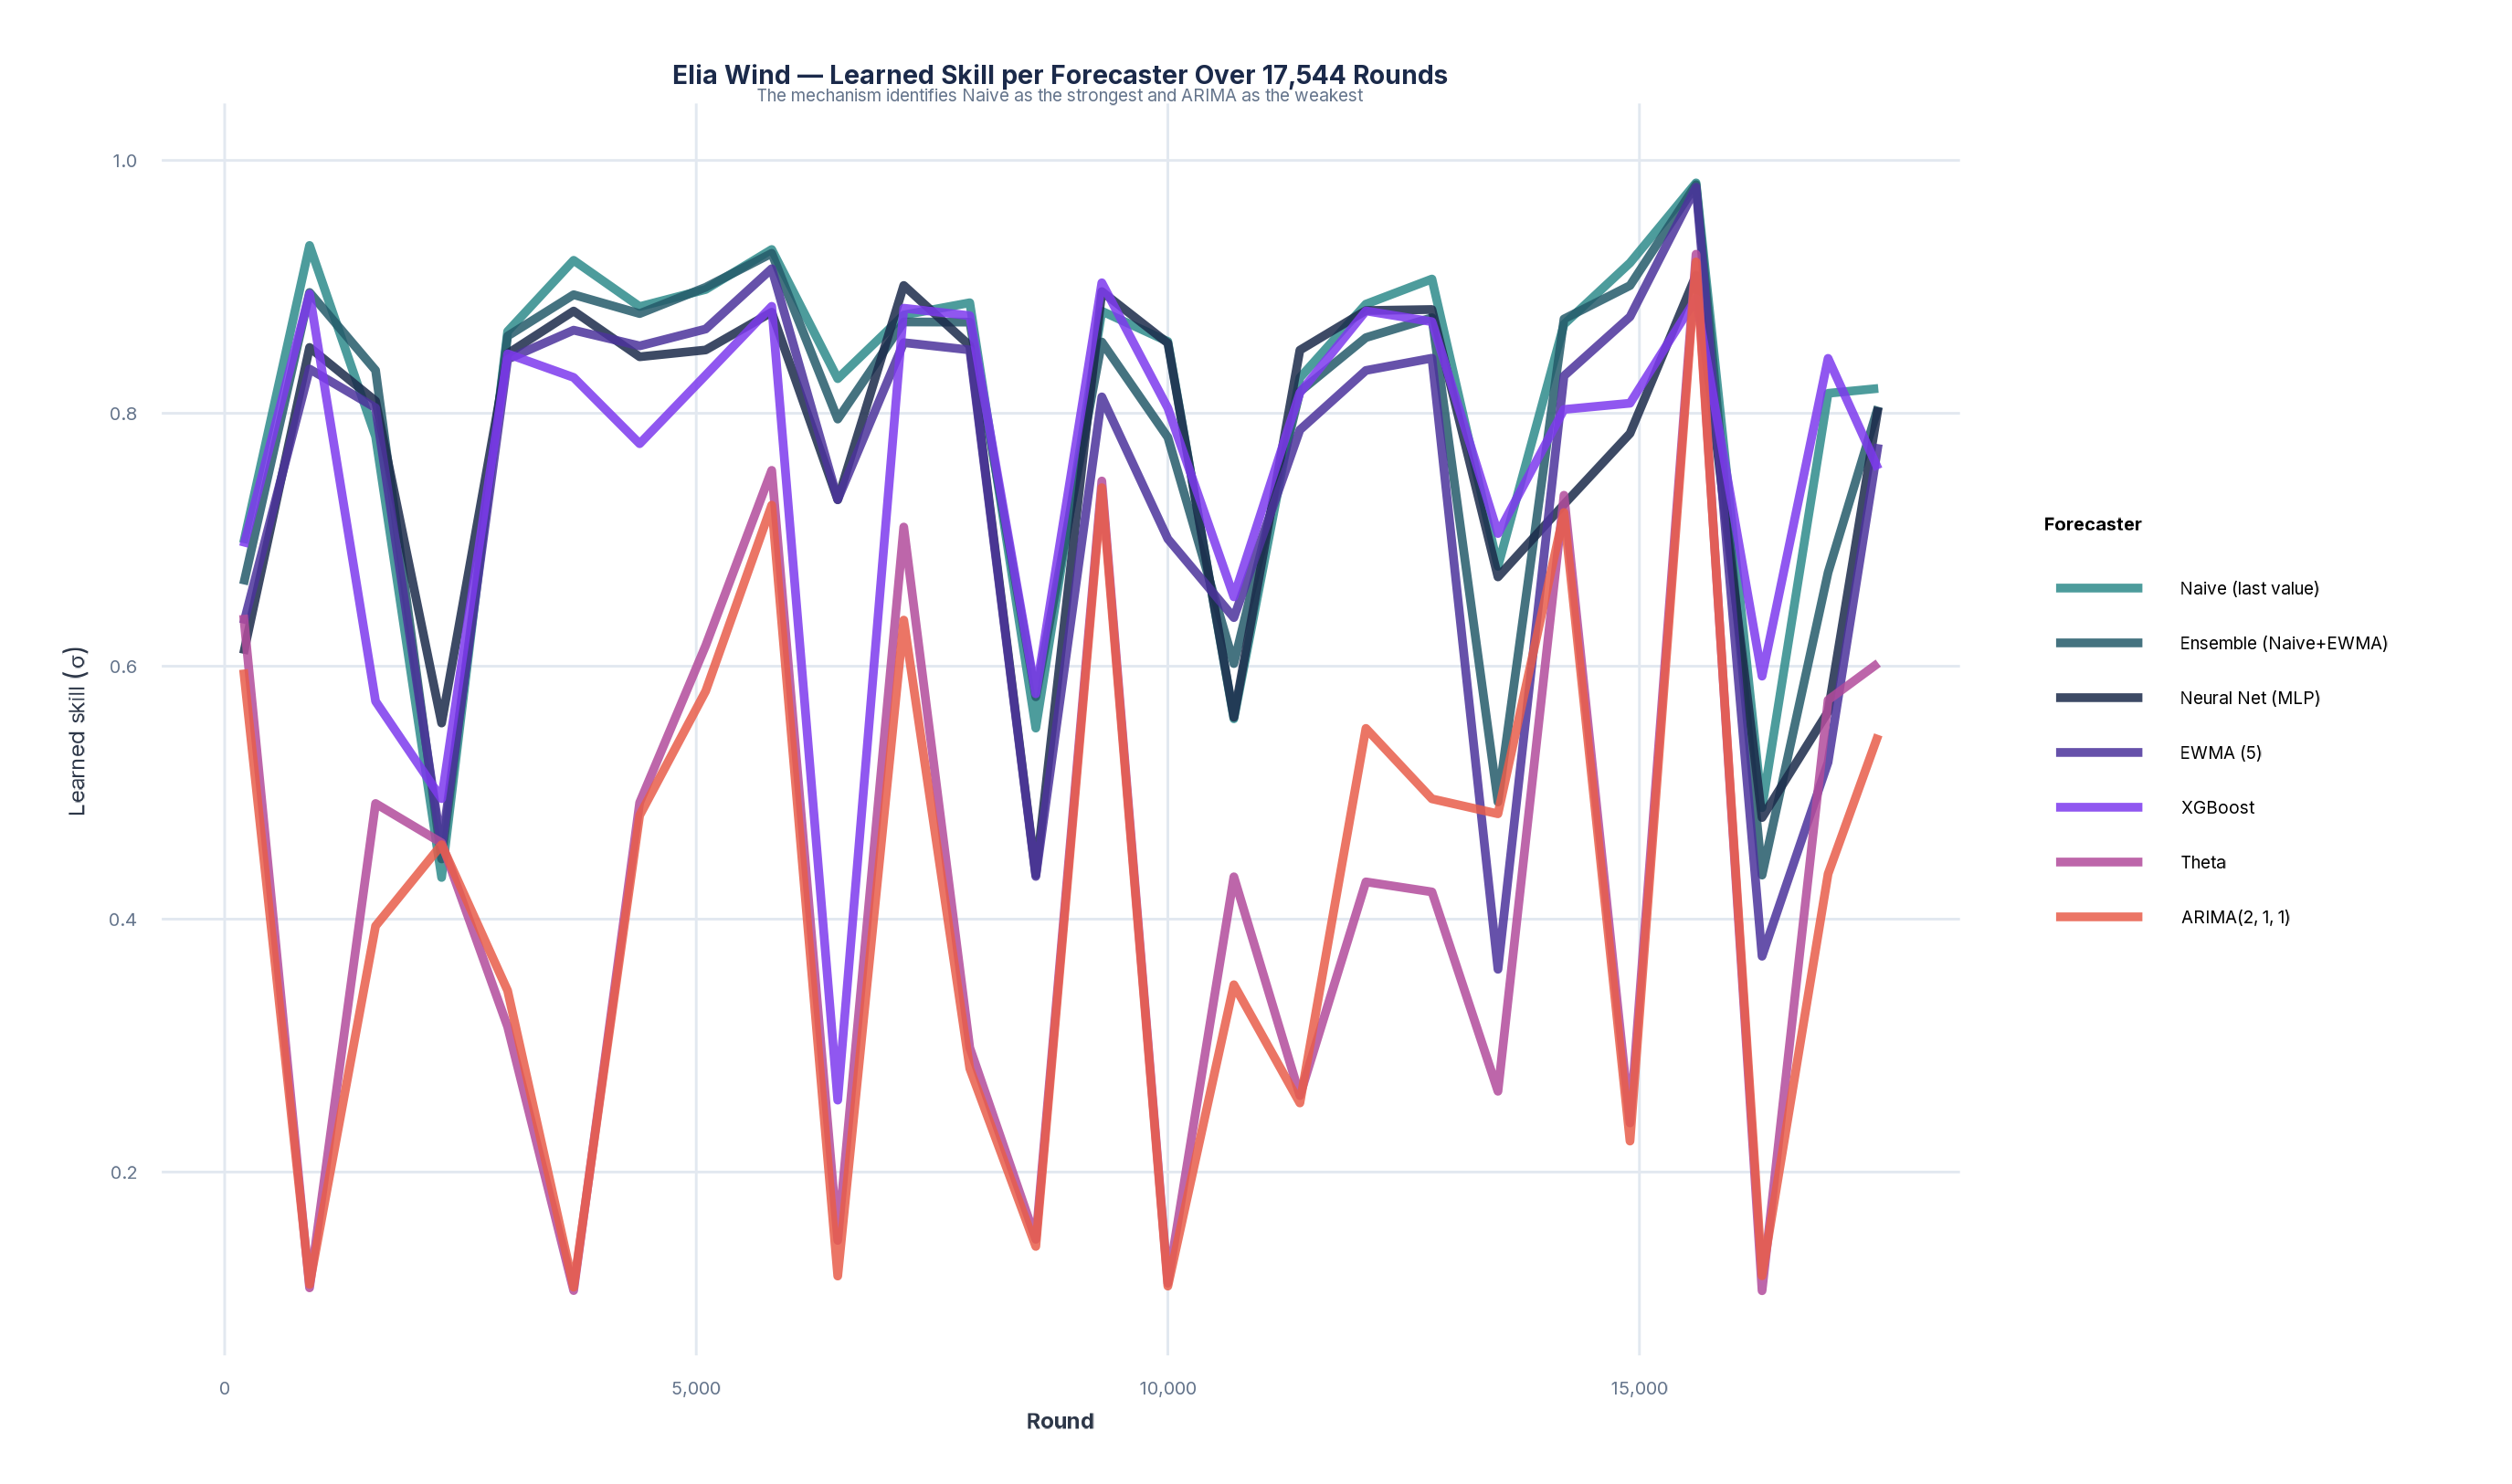
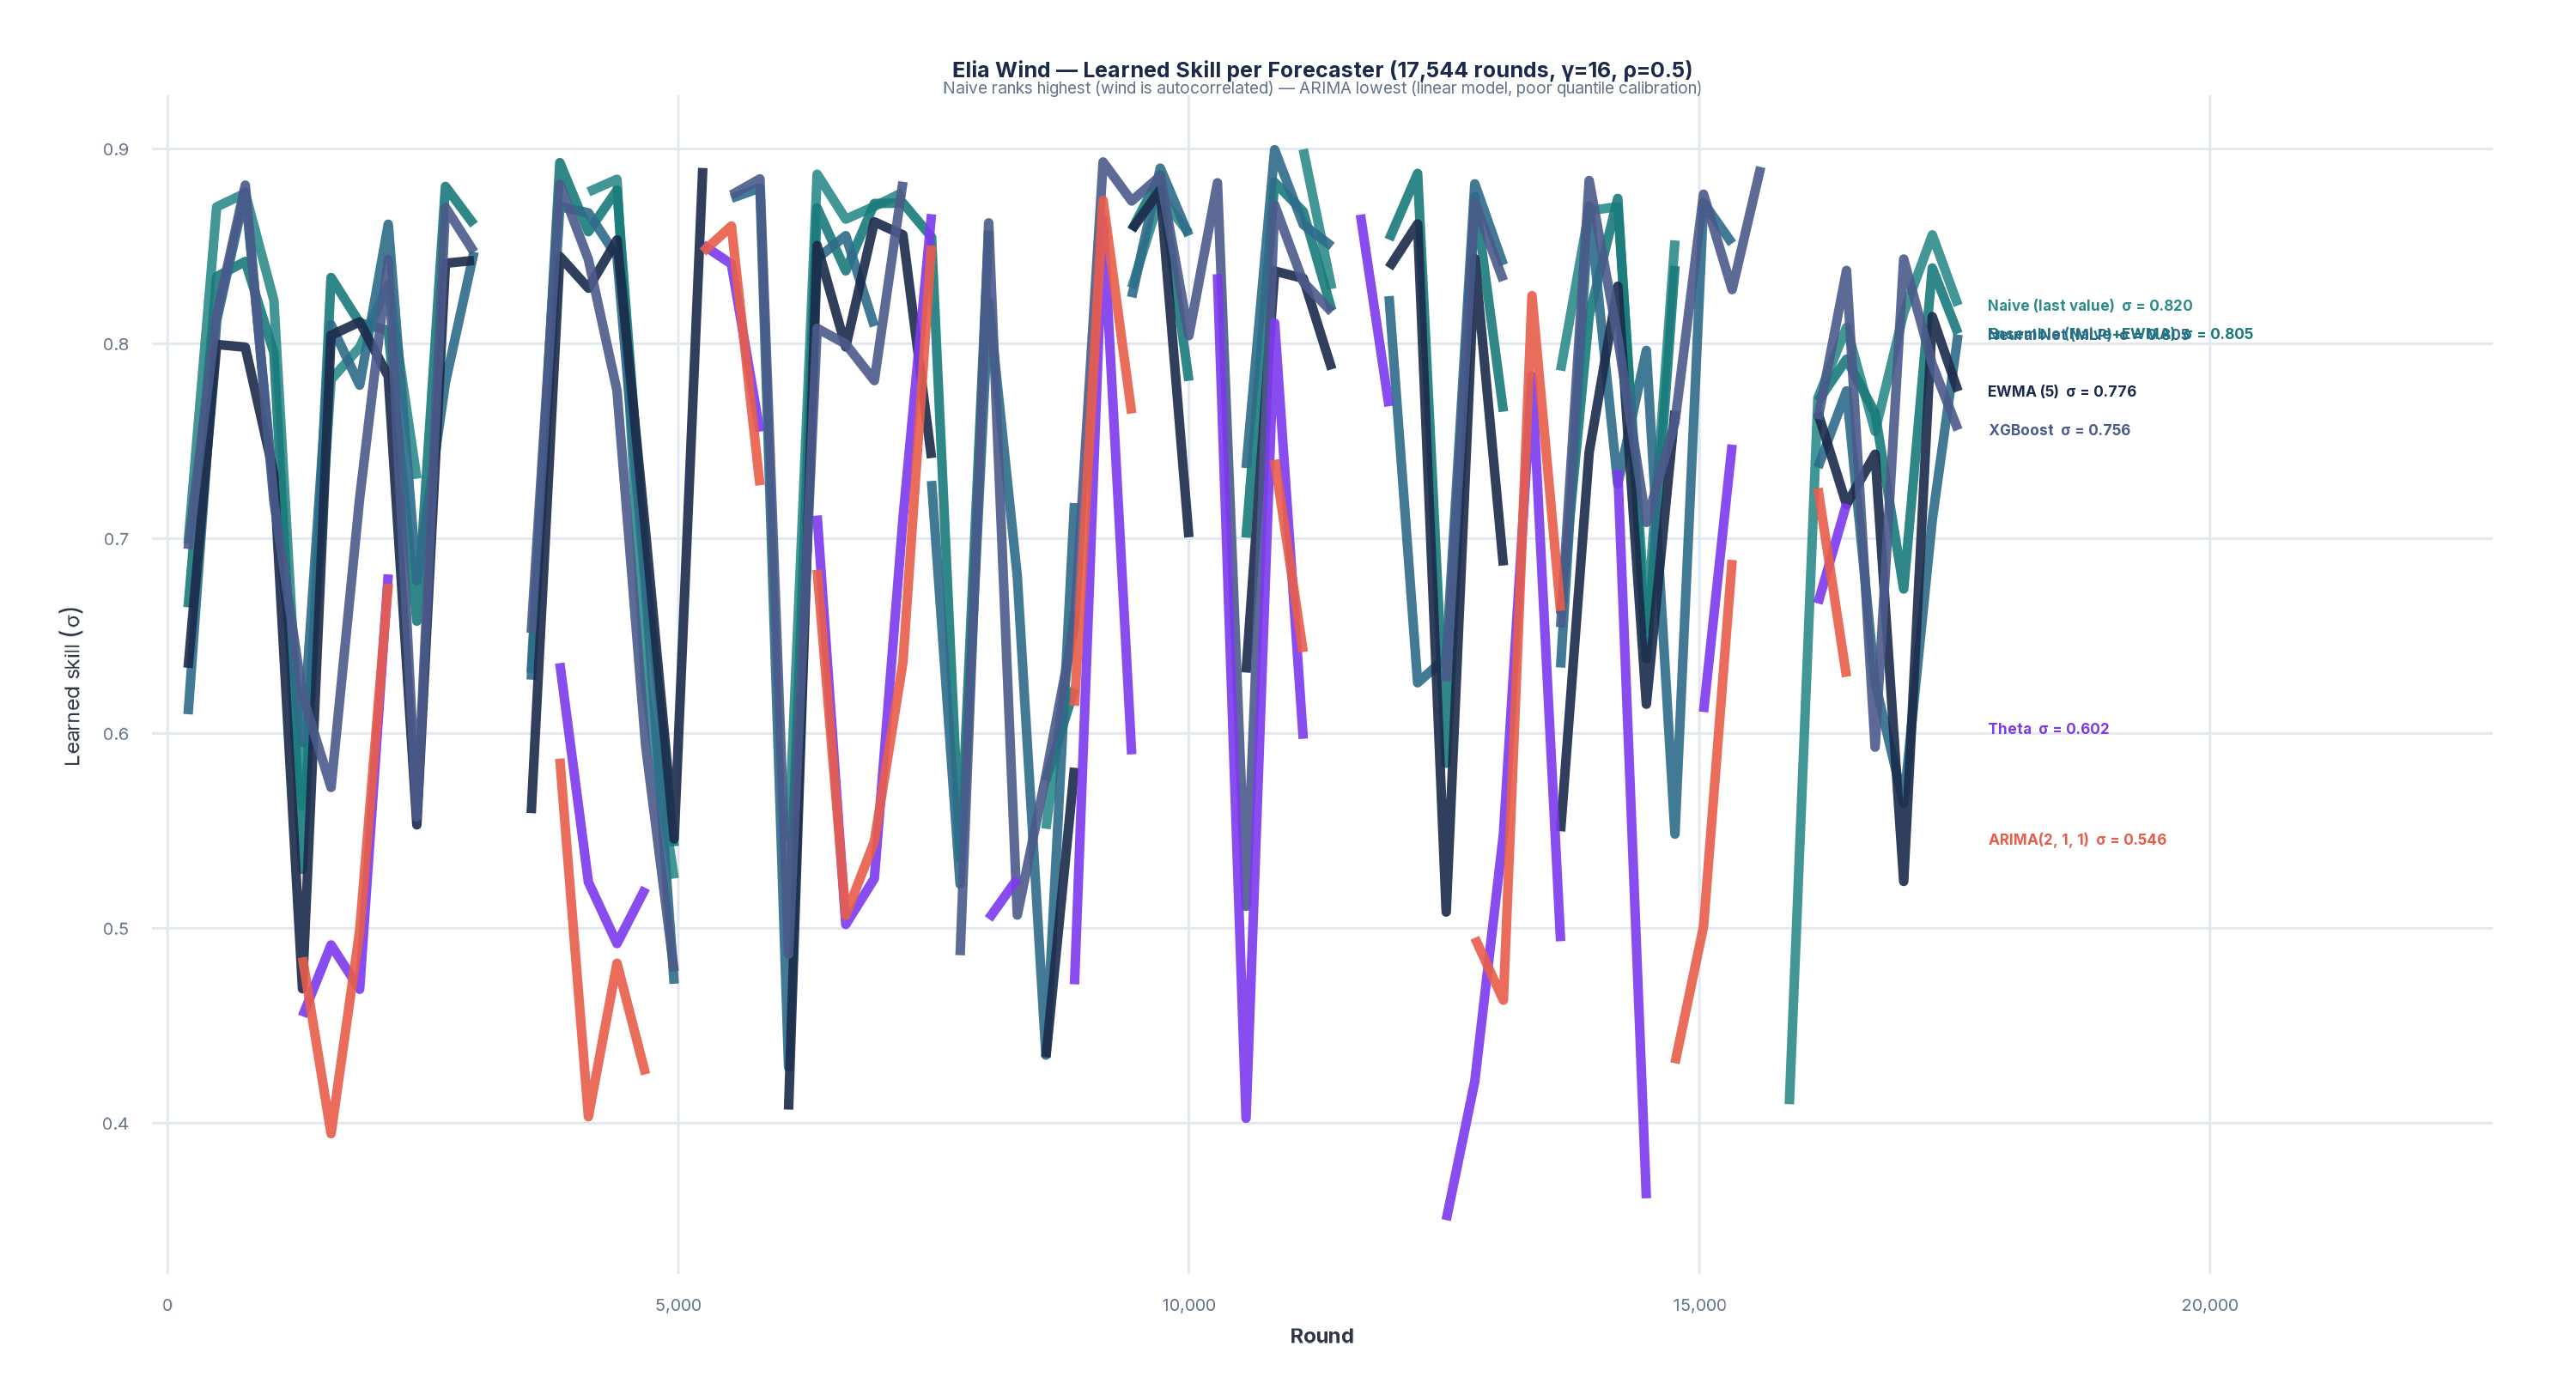
feat(script+plots+slides): explain forecasters, ranking, improve graph
Script improvements:
- Slide 7: each forecaster explained (Naive = persistence for
  autocorrelated wind, EWMA = exponential smoothing, ARIMA = linear
  time-series, XGBoost = gradient-boosted trees, MLP = neural net,
  Theta = trend decomposition, Ensemble = Naive+EWMA average)
- Slide 9: explains WHY the ranking is what it is (Naive best because
  wind is autocorrelated, ARIMA worst because linear model with poor
  quantile calibration), gives specific final sigma values, compares
  skill-only (30%) vs full mechanism (34%) vs best single (47%)

Main result graph improved:
- Final sigma labels on the right edge of each line (no legend needed)
- Labels show 'Forecaster  σ = 0.XXX' for instant readability
- Y-axis zoomed to [0.35, 0.90] to spread the lines apart
- Distinct colours per forecaster (teal→navy→purple→coral gradient)
- Subtitle explains the ranking logic
- Wider plot (12in) with 28% right margin for labels

Slide 9 bullets updated to explain the ranking.

diff --git a/dashboard/src/pages/PresentationPage.tsx b/dashboard/src/pages/PresentationPage.tsx
@@ -155,10 +155,11 @@ const SLIDES: SlideData[] = [
     title: 'Main Empirical Result',
     bullets: [
       '▸ Elia wind: 34% CRPS improvement over equal weights',
-      '▸ Elia electricity: ~4% improvement',
-      '▸ Mechanism identifies Naive as strongest, ARIMA as weakest',
+      '▸ Naive ranks highest — wind is autocorrelated',
+      '▸ ARIMA ranks lowest — linear model, poor quantile calibration',
+      '▸ Electricity: ~4% (forecasters more similar)',
       '',
-      '→ Gains depend on forecaster heterogeneity',
+      '→ Conditional improvement — gains depend on heterogeneity',
     ],
     component: ContributionsChartSlide,
     slideNumber: 9,

diff --git a/presentation/script-2026-04-20.md b/presentation/script-2026-04-20.md
@@ -83,7 +83,7 @@ And can it do that while preserving the core market discipline — budget balanc
 
 ### Slide bullets
 
-* Lambert: self-financed wagering — seven formal properties, uniqueness
+* Lambert: self-financed wagering — seven properties, uniqueness
 * Raja: forecasting market with client and payoff allocation
 * Vitali: online learning, intermittent participation, relative weights
 * Gap: adaptive + self-financed + absolute skill
@@ -134,11 +134,13 @@ The skill signal is absolute — it represents the reliability of one participan
 
 The system has three layers. The environment defines the data — both synthetic benchmarks and real data from the Elia Belgian grid operator for offshore wind power and electricity imbalance prices.
 
-The agent layer generates per-round actions. On the real data, seven forecasting models participate: Naive persistence, EWMA with span five, ARIMA, XGBoost, a multi-layer perceptron, the Theta method, and a Naive-plus-EWMA ensemble. All models are strictly causal — they use only data up to time t minus one to predict time t. Quantiles are generated via residual bootstrap with isotonic monotonicity enforcement.
+The agent layer generates per-round actions. On the real data, seven forecasting models participate. Naive persistence uses the most recent observed value as the forecast — it works well when the series is highly autocorrelated, which wind power is. EWMA with span five smooths recent observations using exponential decay. ARIMA is a classical linear time-series model that captures autoregressive and moving-average structure. XGBoost is a gradient-boosted tree ensemble that captures nonlinear interactions from lag features. The MLP is a multi-layer perceptron neural network — the most flexible model in the panel. The Theta method decomposes the series into trend components. And the ensemble simply averages Naive and EWMA for diversification.
+
+All models are strictly causal — they use only data up to time t minus one to predict time t. Quantiles are generated via residual bootstrap with isotonic monotonicity enforcement.
 
 The behaviour layer is separated from the core. It can produce honest forecasters or adversarial ones — sybils, arbitrageurs, reputation gamers — without touching the settlement logic.
 
-The core pipeline runs each round in five steps: submit, skill gate, aggregate, settle, update. The same effective wager determines both aggregation weight and financial exposure. Budget balance holds by construction — total payouts always equal total effective wagers.
+The core pipeline runs each round in five steps: submit, skill gate, aggregate, settle, update. The same effective wager determines both aggregation weight and financial exposure. Budget balance holds by construction.
 
 ---
 
@@ -177,13 +179,15 @@ The critical difference from relative-weight approaches: my skill signal is abso
 
 On the Elia wind dataset — seventeen thousand five hundred and forty-four hourly observations, seven forecasters, tuned parameters — the mechanism achieves a thirty-four per cent CRPS improvement over equal weights.
 
-The graph shows the learned skill for each forecaster over time. The mechanism correctly identifies Naive persistence as the strongest forecaster — it achieves the highest skill — and ARIMA as the weakest. The other five models spread out in between. This is the mechanism learning in action on real data.
+The graph shows the learned skill for each forecaster over time. The mechanism correctly identifies Naive persistence as the strongest forecaster — it achieves the highest skill at zero point eight two. That makes sense: wind power is highly autocorrelated, so the most recent observation is a strong predictor. The MLP and the Naive-plus-EWMA ensemble are close behind, both around zero point eight zero five. EWMA and XGBoost sit in the middle. Theta and ARIMA are weakest — ARIMA at zero point five five — because linear models and trend decomposition are less suited to the nonlinear, non-stationary structure of wind power.
+
+The mechanism learns this ranking from data alone, without being told which model is better. That is the skill layer working as intended.
 
 On the Elia electricity dataset, the improvement is smaller, at around four per cent. The forecasters are more similar in quality on that task, so there is less heterogeneity for the skill layer to exploit.
 
-A skill-only variant already improves over equal weighting by about thirty per cent. The full mechanism — coupling skill with the deposit and settlement structure — improves further. That supports the claim that learned reliability is genuinely useful for aggregation.
+A skill-only variant already improves over equal weighting by about thirty per cent. The full mechanism — coupling skill with the deposit and settlement structure — improves further to thirty-four per cent. That supports the claim that learned reliability is genuinely useful for aggregation.
 
-At the same time, the best single forecaster still outperforms the aggregate. That is an important point to state clearly. The contribution is conditional improvement, not universal dominance.
+At the same time, the best single forecaster — Naive — still outperforms the aggregate at minus forty-seven per cent. That is an important point to state clearly. The contribution is conditional improvement, not universal dominance.
 
 ---
 
@@ -202,9 +206,9 @@ Before interpreting the forecasting result, the mechanism must be correct.
 
 Budget balance: across one thousand synthetic rounds, the maximum gap between total payouts and total wagers is about ten to the minus thirteen — machine precision. The mechanism is self-financed to numerical tolerance.
 
-Sybil invariance: splitting one identity into clones with identical reports and the same total deposit preserves total profit exactly. The ratio is one point zero zero zero zero zero zero. However, sybil splitting with diversified reports — where clones submit different forecasts — does yield a ratio of about one point zero six five. Sybilproofness holds only when clones report identically, which is the standard assumption in Lambert's framework.
+Sybil invariance: splitting one identity into clones with identical reports and the same total deposit preserves total profit exactly. The ratio is one point zero zero zero zero zero zero. However, sybil splitting with diversified reports — where clones submit slightly different forecasts — does yield a ratio of about one point zero six five. Sybilproofness holds only when clones report identically, which is the standard assumption in Lambert's framework.
 
-Skill recovery: in the controlled benchmark with six forecasters of known noise levels, the learned ranking matches the true ranking perfectly. Spearman rank correlation is one point zero zero zero zero.
+Skill recovery: in the controlled benchmark with six forecasters of known noise levels over twenty thousand rounds, the learned ranking matches the true ranking perfectly. Spearman rank correlation is one point zero zero zero zero.
 
 The noise-skill correlation is minus zero point nine eight — the mechanism reliably rewards skilled forecasters and penalises noisy ones.
 